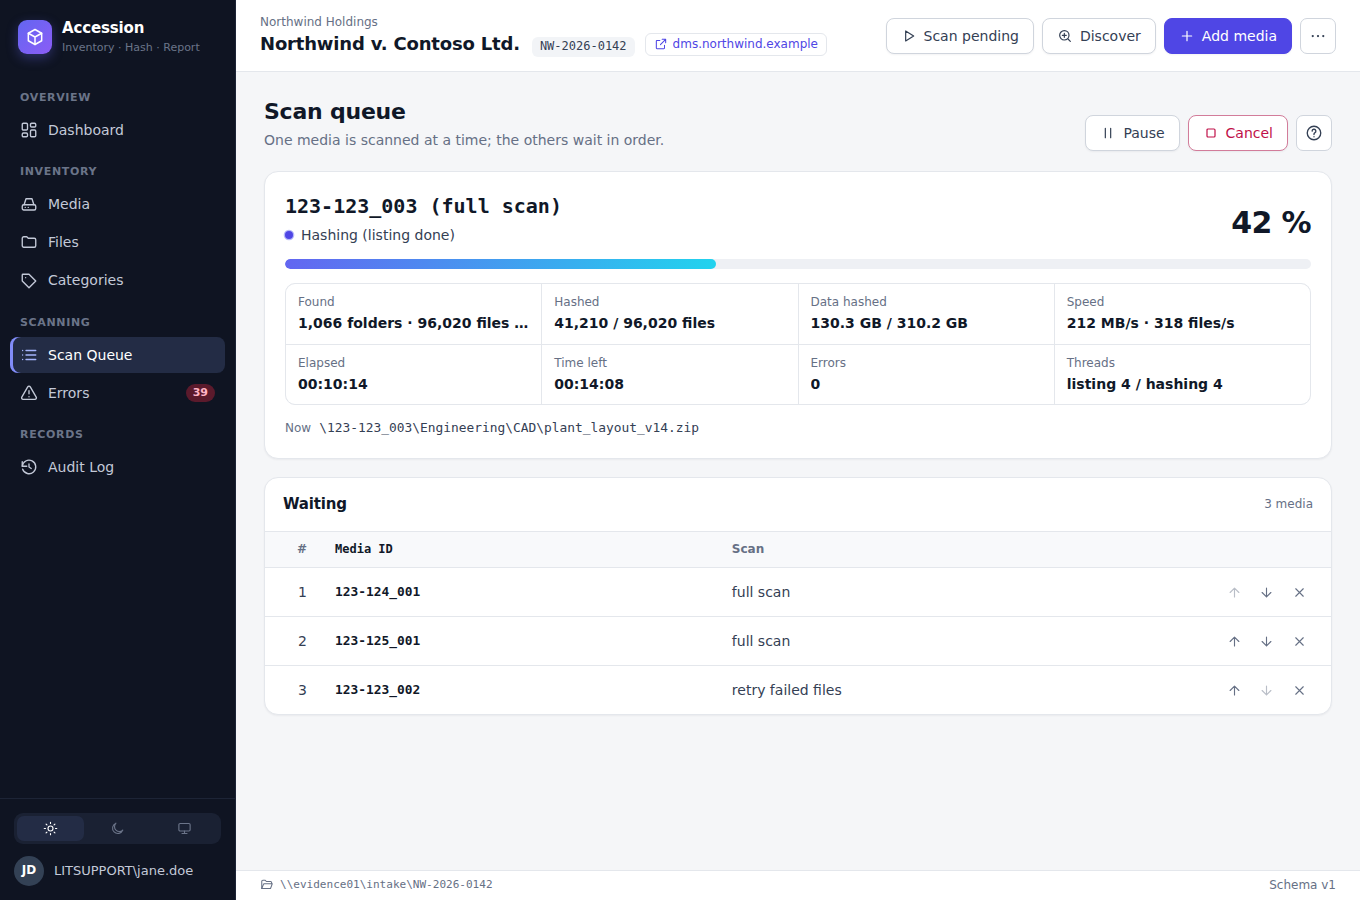
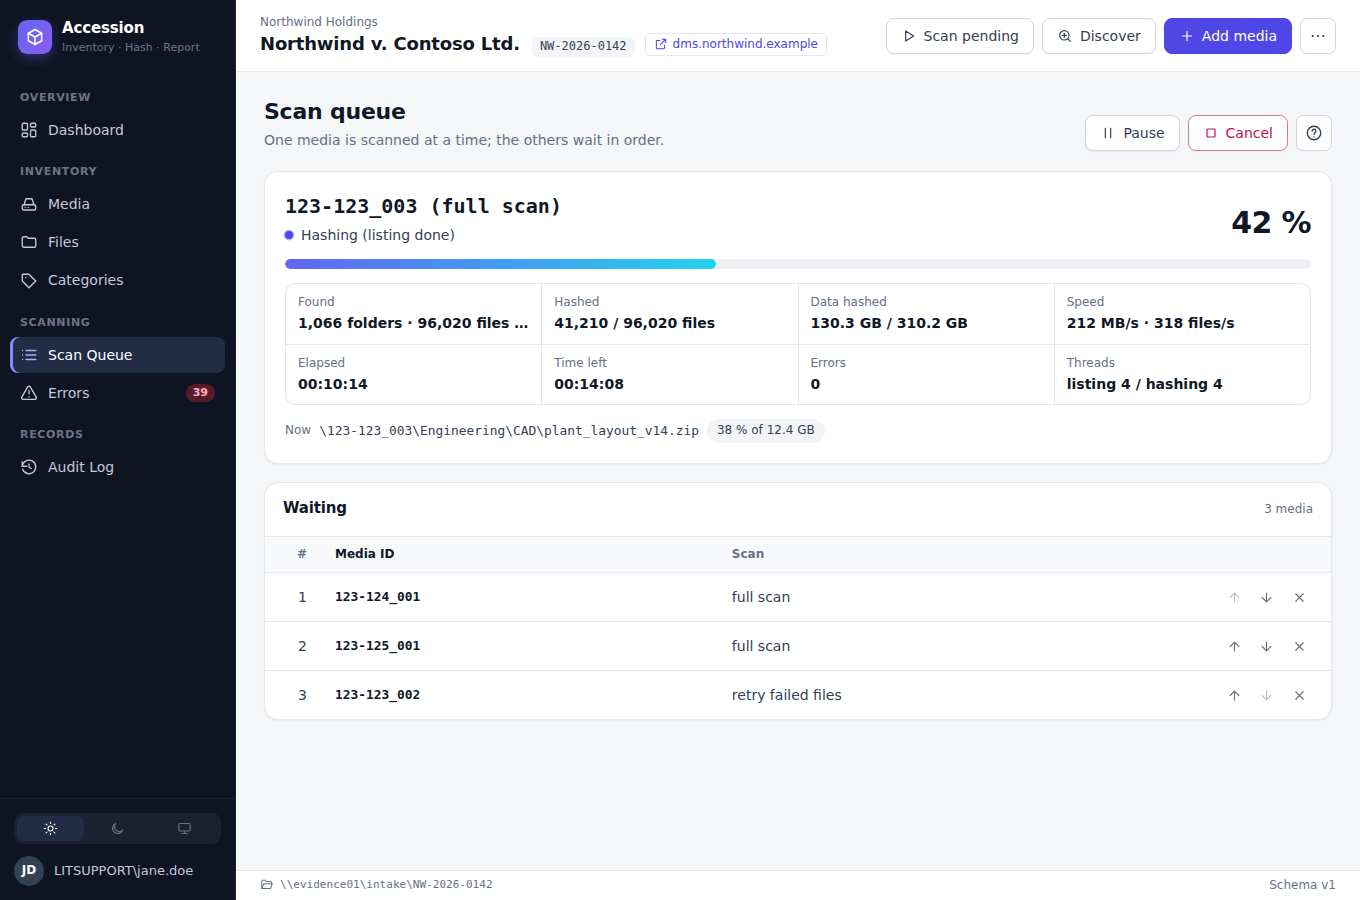
Scan progress moves inside large files; "Now" shows the file really being hashed
A scan hashing one very large file (e.g. a ~500 GB virtual disk under
AppData) looked stuck: bytes were only counted when a file finished, so
speed read 0 B/s and the percentage 0 % for the whole file, and "Now"
showed whichever small file another hashing thread started last.
Meanwhile the queued media waited, as designed (one media at a time).

- IFileHasher reports bytes as they are read; ScanCounters counts them
  live (a retry restarts the file's count; cancelled files do not
  count; totals still end at the file sizes).
- ScanCounters tracks the files being hashed; "Now" is the one that has
  been hashing longest, and the snapshot carries its size and progress.
- Scan Queue shows it next to "Now", e.g. "38 % of 12.4 GB", for files
  of 50 MB and more. Help updated.

Claude-Session: https://claude.ai/code/session_01UTQuWakbAyEFAKq5RSeUfc

diff --git a/src/Accession.App/wwwroot/help/index.html b/src/Accession.App/wwwroot/help/index.html
@@ -324,6 +324,9 @@
                 <li><strong>Pause</strong>, <strong>Resume</strong> and <strong>Cancel</strong> control the running scan. A cancelled or
                     interrupted scan can be finished later with <em>Resume</em> on the Media screen.</li>
                 <li>Use <em>Move up</em>, <em>Move down</em> and <em>Remove from queue</em> on waiting media.</li>
+                <li><strong>Now</strong> shows the file that has been hashing longest. A large file (virtual disks, backups, mailbox
+                    archives) shows its own progress, e.g. <em>38 % of 12.4 GB</em>: hashing a very large file can take a long time,
+                    and the media waiting start when it is done.</li>
                 <li>Closing Accession during a scan asks first; the scan can be resumed the next time.</li>
             </ul>
         </section>

diff --git a/src/Accession.Core/Scanning/ScanCounters.cs b/src/Accession.Core/Scanning/ScanCounters.cs
@@ -1,3 +1,5 @@
+using System.Collections.Concurrent;
+
 namespace Accession.Core.Scanning;
 
 /// <summary>Thread-safe counters updated by the enumeration and hashing workers.</summary>
@@ -19,11 +21,76 @@ public sealed class ScanCounters
     public long BytesHashed => Interlocked.Read(ref _bytesHashed);
     public long Errors => Interlocked.Read(ref _errors);
 
-    /// <summary>Relative path of the item most recently started.</summary>
+    private readonly ConcurrentDictionary<long, FileInProgress> _hashing = new();
+    private long _started;
+
+    /// <summary>
+    /// What is being worked on: while files are being hashed, the one that has been hashing longest (a large file shows
+    /// here until it is done, not whichever small file another thread started last); otherwise the item most recently
+    /// started (e.g. the folder being listed).
+    /// </summary>
     public string? CurrentPath
     {
-        get => _currentPath;
+        get => LongestHashing()?.Path ?? _currentPath;
         set => _currentPath = value;
+    }
+
+    /// <summary>The file that has been hashing longest, with its size and the bytes read so far; null when none.</summary>
+    public FileInProgress? LongestHashing()
+    {
+        FileInProgress? longest = null;
+        foreach (var file in _hashing.Values)
+        {
+            if (longest is null || file.Order < longest.Order)
+            {
+                longest = file;
+            }
+        }
+
+        return longest;
+    }
+
+    /// <summary>A file starts hashing. Call <see cref="EndHashing"/> when its hash step is done.</summary>
+    public FileInProgress BeginHashing(long fileId, string path, long size)
+    {
+        var file = new FileInProgress(path, size, Interlocked.Increment(ref _started));
+        _hashing[fileId] = file;
+        return file;
+    }
+
+    /// <summary>Bytes read from a file being hashed: the totals (speed, percentage) move while large files are read.</summary>
+    public void AddHashedBytes(FileInProgress file, long bytes)
+    {
+        ArgumentNullException.ThrowIfNull(file);
+        file.Add(bytes);
+        Interlocked.Add(ref _bytesHashed, bytes);
+    }
+
+    /// <summary>A retry reads the file again from the start: what was read before no longer counts.</summary>
+    public void RestartHashing(FileInProgress file)
+    {
+        ArgumentNullException.ThrowIfNull(file);
+        Interlocked.Add(ref _bytesHashed, -file.Restart());
+    }
+
+    /// <summary>The scan stopped while the file was being hashed (cancel, pause for shutdown): it does not count.</summary>
+    public void AbandonHashing(long fileId, FileInProgress file)
+    {
+        ArgumentNullException.ThrowIfNull(file);
+        _hashing.TryRemove(fileId, out _);
+        Interlocked.Add(ref _bytesHashed, -file.Restart());
+    }
+
+    /// <summary>
+    /// The file's hash step finished (successfully or not). Its bytes count as its size in total, whatever was reported
+    /// while reading (a retry re-reads, a failure stops early).
+    /// </summary>
+    public void EndHashing(long fileId, FileInProgress file, long size)
+    {
+        ArgumentNullException.ThrowIfNull(file);
+        _hashing.TryRemove(fileId, out _);
+        Interlocked.Increment(ref _filesHashed);
+        Interlocked.Add(ref _bytesHashed, size - file.BytesRead);
     }
 
     /// <summary>True once enumeration finished, so totals are final and an ETA can be given.</summary>
@@ -49,4 +116,24 @@ public sealed class ScanCounters
     }
 
     public void AddError() => Interlocked.Increment(ref _errors);
+}
+
+/// <summary>A file being hashed: path, size and bytes read so far (thread-safe).</summary>
+public sealed class FileInProgress(string path, long size, long order)
+{
+    private long _bytesRead;
+
+    public string Path { get; } = path;
+
+    public long Size { get; } = size;
+
+    /// <summary>Start order: lower started earlier.</summary>
+    public long Order { get; } = order;
+
+    public long BytesRead => Interlocked.Read(ref _bytesRead);
+
+    internal void Add(long bytes) => Interlocked.Add(ref _bytesRead, bytes);
+
+    /// <summary>Starts counting from zero again; returns what had been read.</summary>
+    internal long Restart() => Interlocked.Exchange(ref _bytesRead, 0);
 }

diff --git a/tests/Accession.Tests/Scanning/HashProgressTests.cs b/tests/Accession.Tests/Scanning/HashProgressTests.cs
@@ -1,0 +1,84 @@
+using Accession.Core.Scanning;
+using Accession.Tests.TestSupport;
+using Microsoft.Extensions.Time.Testing;
+
+namespace Accession.Tests.Scanning;
+
+/// <summary>
+/// Progress inside large files: a 500 GB file used to show 0 B/s and 0 % until it was done, and "Now" showed whichever
+/// small file another thread started last, so a working scan looked stuck.
+/// </summary>
+public sealed class HashProgressTests
+{
+    [Fact]
+    public void Bytes_count_while_reading_and_the_total_ends_at_the_file_size()
+    {
+        var counters = new ScanCounters();
+        counters.AddFiles(2, 1_000 + 10);
+
+        var big = counters.BeginHashing(1, @"\M1\disk.vhdx", 1_000);
+        counters.AddHashedBytes(big, 300);
+        Assert.Equal(300, counters.BytesHashed); // moving before the file is done
+        Assert.Equal(0, counters.FilesHashed);
+
+        counters.RestartHashing(big); // a network retry reads it again
+        Assert.Equal(0, counters.BytesHashed);
+        counters.AddHashedBytes(big, 1_000);
+        counters.EndHashing(1, big, 1_000);
+
+        var small = counters.BeginHashing(2, @"\M1\a.txt", 10);
+        counters.AddHashedBytes(small, 4); // failed halfway
+        counters.EndHashing(2, small, 10);
+
+        Assert.Equal((2L, 1_010L), (counters.FilesHashed, counters.BytesHashed)); // as before: each file counts its size
+    }
+
+    [Fact]
+    public void Now_is_the_file_that_has_been_hashing_longest_with_its_progress()
+    {
+        var time = new FakeTimeProvider();
+        var counters = new ScanCounters();
+        counters.AddFiles(3, 500_000_000_000 + 20);
+        var big = counters.BeginHashing(1, @"\AppData\Local\Docker\wsl\disk\docker_data.vhdx", 500_000_000_000);
+        counters.AddHashedBytes(big, 125_000_000_000);
+        var small = counters.BeginHashing(2, @"\AppData\semver.js", 10); // started later by another thread
+        counters.EndHashing(2, small, 10);
+        counters.BeginHashing(3, @"\AppData\b.js", 10);
+
+        var snapshot = new ScanProgressTracker(time).Sample(1, "AppData", ScanPhase.Hashing, false, counters);
+
+        Assert.Equal(@"\AppData\Local\Docker\wsl\disk\docker_data.vhdx", snapshot.CurrentPath);
+        Assert.Equal(25, snapshot.CurrentFilePercent);
+        Assert.Equal(500_000_000_000, snapshot.CurrentFileSize);
+
+        counters.EndHashing(1, big, 500_000_000_000);
+        Assert.Equal(@"\AppData\b.js", counters.CurrentPath);
+    }
+
+    [Fact]
+    public void Cancelled_files_do_not_count()
+    {
+        var counters = new ScanCounters();
+        var file = counters.BeginHashing(1, @"\M1\big.bin", 1_000);
+        counters.AddHashedBytes(file, 600);
+
+        counters.AbandonHashing(1, file);
+
+        Assert.Equal((0L, 0L), (counters.FilesHashed, counters.BytesHashed));
+        Assert.Null(counters.LongestHashing());
+    }
+
+    [Fact]
+    public void The_hasher_reports_the_bytes_it_reads()
+    {
+        using var temp = new TempDirectory();
+        var path = temp.Combine("big.bin");
+        File.WriteAllBytes(path, new byte[(3 * Sha1FileHasher.BufferSize) + 5]);
+        var reported = new List<long>();
+
+        var result = new Sha1FileHasher().Hash(path, TestContext.Current.CancellationToken, reported.Add);
+
+        Assert.Equal(4, reported.Count); // per 1 MB buffer, not only at the end
+        Assert.Equal(result.BytesRead, reported.Sum());
+    }
+}

diff --git a/src/Accession.Data/Scanning/HashingPhase.cs b/src/Accession.Data/Scanning/HashingPhase.cs
@@ -37,10 +37,15 @@ public sealed class HashingPhase
 
     private async Task HashOneAsync(ScanContext context, HashWork item, CancellationToken cancellationToken)
     {
-        context.Counters.CurrentPath = item.RelativePath;
+        var counters = context.Counters;
+        var file = counters.BeginHashing(item.FileId, item.RelativePath, item.Size);
         try
         {
-            var result = await context.Retry.RunAsync(() => _hasher.Hash(context.FullPath(item.RelativePath), cancellationToken), cancellationToken)
+            var result = await context.Retry.RunAsync(() =>
+                {
+                    counters.RestartHashing(file); // a retry reads the file again from the start
+                    return _hasher.Hash(context.FullPath(item.RelativePath), cancellationToken, read => counters.AddHashedBytes(file, read));
+                }, cancellationToken)
                 .ConfigureAwait(false);
             await context.Writer.WriteAsync(
                 new HashResultCommand(item.FileId, result.Sha1, HashStatus.Hashed, context.TimeProvider.GetUtcNow()), cancellationToken).ConfigureAwait(false);
@@ -54,6 +59,11 @@ public sealed class HashingPhase
                     cancellationToken).ConfigureAwait(false);
             }
         }
+        catch (OperationCanceledException)
+        {
+            counters.AbandonHashing(item.FileId, file);
+            throw;
+        }
         catch (Exception ex) when (ex is not OperationCanceledException)
         {
             await context.Writer.WriteAsync(
@@ -62,6 +72,6 @@ public sealed class HashingPhase
             context.Counters.AddError();
         }
 
-        context.Counters.AddHashed(item.Size);
+        counters.EndHashing(item.FileId, file, item.Size);
     }
 }

diff --git a/src/Accession.Core/Scanning/ScanProgress.cs b/src/Accession.Core/Scanning/ScanProgress.cs
@@ -25,8 +25,13 @@ public sealed record ScanProgressSnapshot(
     TimeSpan Elapsed,
     TimeSpan? Eta,
     string? CurrentPath,
-    bool EnumerationDone)
+    bool EnumerationDone,
+    long CurrentFileSize = 0,
+    long CurrentFileBytesRead = 0)
 {
+    /// <summary>How far the file in <see cref="CurrentPath"/> is hashed, 0–100; null when not hashing a file.</summary>
+    public double? CurrentFilePercent => CurrentFileSize > 0 ? Math.Min(100d, 100d * CurrentFileBytesRead / CurrentFileSize) : null;
+
     /// <summary>Hashing progress by bytes, 0–100.</summary>
     public double PercentByBytes =>
         BytesFound > 0 ? Math.Min(100d, 100d * BytesHashed / BytesFound)
@@ -83,10 +88,11 @@ public sealed class ScanProgressTracker
             }
         }
 
+        var current = counters.LongestHashing();
         return new ScanProgressSnapshot(
             mediaKey, mediaId, phase, isPaused,
             counters.FoldersFound, counters.FilesFound, counters.BytesFound, files, bytes, counters.Errors,
             filesPerSecond, bytesPerSecond, _timeProvider.GetElapsedTime(_started, now), eta,
-            counters.CurrentPath, counters.EnumerationDone);
+            current?.Path ?? counters.CurrentPath, counters.EnumerationDone, current?.Size ?? 0, current?.BytesRead ?? 0);
     }
 }

diff --git a/src/Accession.Presentation/ViewModels/Scanning/ScanQueueViewModel.cs b/src/Accession.Presentation/ViewModels/Scanning/ScanQueueViewModel.cs
@@ -63,6 +63,12 @@ public sealed partial class ScanQueueViewModel : ViewModelBase, IScanQueueModel,
 
     public string CurrentPath { get; private set; } = string.Empty;
 
+    /// <summary>"12 % of 512.96 GiB" for a large file being hashed (so a long file shows it is moving); empty otherwise.</summary>
+    public string CurrentFileProgress { get; private set; } = string.Empty;
+
+    /// <summary>Files from this size on show their own progress next to "Now".</summary>
+    public const long LargeFileBytes = 50L * 1024 * 1024;
+
     public ObservableCollection<QueueRow> Queue { get; } = [];
 
     public bool HasQueue => Queue.Count > 0;
@@ -155,6 +161,9 @@ public sealed partial class ScanQueueViewModel : ViewModelBase, IScanQueueModel,
         Errors = p?.Errors.ToString("N0", culture) ?? string.Empty;
         Threads = _scans.CurrentOptions is { } o ? $"listing {o.EnumerationThreads} / hashing {o.HashingThreads}" : string.Empty;
         CurrentPath = p?.CurrentPath ?? string.Empty;
+        CurrentFileProgress = p is { CurrentFilePercent: { } filePercent, CurrentFileSize: >= LargeFileBytes }
+            ? $"{filePercent:0} % of {SizeFormatter.Format(p.CurrentFileSize, unit)}"
+            : string.Empty;
 
         Queue.Clear();
         var position = 1;

diff --git a/tests/Accession.Tests/WebUi/ScanScreensTests.cs b/tests/Accession.Tests/WebUi/ScanScreensTests.cs
@@ -19,6 +19,7 @@ public sealed class ScanScreensTests
         Assert.Contains("Hashing (listing done)", html);
         Assert.Contains("42 %", html);
         Assert.Contains("212 MB/s", html);
+        Assert.Contains("38 % of 12.4 GB", html); // a large file being hashed shows its own progress
         Assert.Contains("123-124_001", html);
         Assert.Contains("title=\"Move up\" disabled", html); // first waiting item
         Assert.Contains("Pause", html);
@@ -97,6 +98,7 @@ public sealed class ScanScreensTests
         public string Errors => "0";
         public string Threads => "listing 4 / hashing 4";
         public string CurrentPath => @"\123-123_003\Engineering\CAD\plant_layout_v14.zip";
+        public string CurrentFileProgress => IsRunning ? "38 % of 12.4 GB" : string.Empty;
         public ObservableCollection<QueueRow> Queue { get; } = [];
         public ICommand PauseCommand { get; } = new RelayCommand(() => { });
         public ICommand ResumeCommand { get; } = new RelayCommand(() => { });

diff --git a/src/Accession.Core/Scanning/Sha1FileHasher.cs b/src/Accession.Core/Scanning/Sha1FileHasher.cs
@@ -13,7 +13,7 @@ public sealed class Sha1FileHasher : IFileHasher
 {
     public const int BufferSize = 1 << 20;
 
-    public FileHashResult Hash(string fullPath, CancellationToken cancellationToken)
+    public FileHashResult Hash(string fullPath, CancellationToken cancellationToken, Action<long>? bytesRead = null)
     {
         using var handle = EvidenceFile.OpenRead(fullPath);
         var buffer = ArrayPool<byte>.Shared.Rent(BufferSize);
@@ -27,6 +27,7 @@ public sealed class Sha1FileHasher : IFileHasher
                 cancellationToken.ThrowIfCancellationRequested();
                 sha1.AppendData(buffer, 0, read);
                 offset += read;
+                bytesRead?.Invoke(read);
             }
 
             return new FileHashResult(

diff --git a/tests/Accession.Tests/Scanning/ScanFakes.cs b/tests/Accession.Tests/Scanning/ScanFakes.cs
@@ -31,7 +31,7 @@ public sealed class FakeHasher : IFileHasher
 
     public Func<string, FileHashResult, FileHashResult> Alter { get; set; } = (_, r) => r;
 
-    public FileHashResult Hash(string fullPath, CancellationToken cancellationToken)
+    public FileHashResult Hash(string fullPath, CancellationToken cancellationToken, Action<long>? bytesRead = null)
     {
         Calls.Add(fullPath);
         Before(fullPath, cancellationToken);
@@ -40,7 +40,7 @@ public sealed class FakeHasher : IFileHasher
             throw ex;
         }
 
-        return Alter(fullPath, _real.Hash(fullPath, cancellationToken));
+        return Alter(fullPath, _real.Hash(fullPath, cancellationToken, bytesRead));
     }
 }
 

diff --git a/src/Accession.Core/Scanning/IFileHasher.cs b/src/Accession.Core/Scanning/IFileHasher.cs
@@ -8,5 +8,6 @@ public sealed record FileHashResult(string Sha1, long BytesRead, long SizeAfter,
 public interface IFileHasher
 {
     /// <summary>Computes the SHA-1 of a file, opened read-only.</summary>
-    FileHashResult Hash(string fullPath, CancellationToken cancellationToken);
+    /// <param name="bytesRead">Called with the bytes read since the previous call, so progress shows inside large files.</param>
+    FileHashResult Hash(string fullPath, CancellationToken cancellationToken, Action<long>? bytesRead = null);
 }

diff --git a/src/Accession.UI/ScanScreens/IScanQueueModel.cs b/src/Accession.UI/ScanScreens/IScanQueueModel.cs
@@ -26,6 +26,9 @@ public interface IScanQueueModel : INotifyPropertyChanged
     string Errors { get; }
     string Threads { get; }
     string CurrentPath { get; }
+
+    /// <summary>"12 % of 512.96 GiB" for a large file being hashed; empty otherwise.</summary>
+    string CurrentFileProgress { get; }
     ObservableCollection<QueueRow> Queue { get; }
 
     ICommand PauseCommand { get; }
